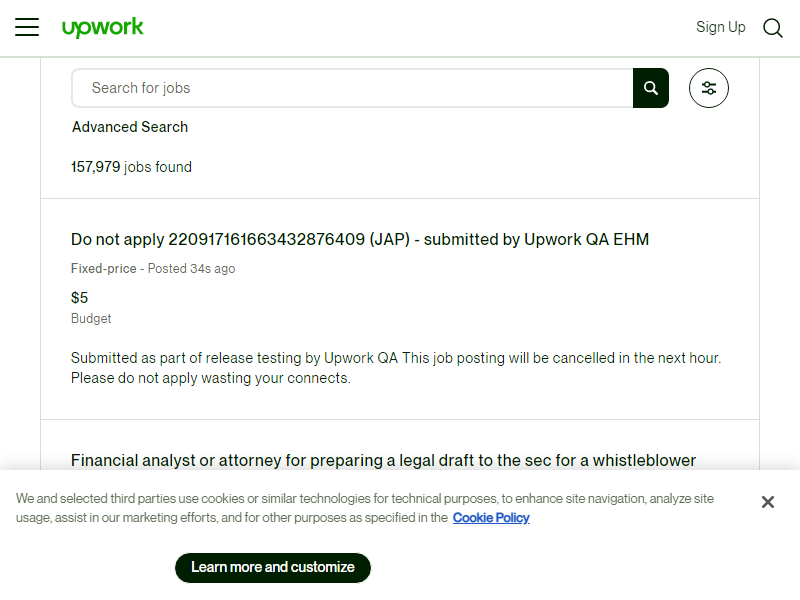
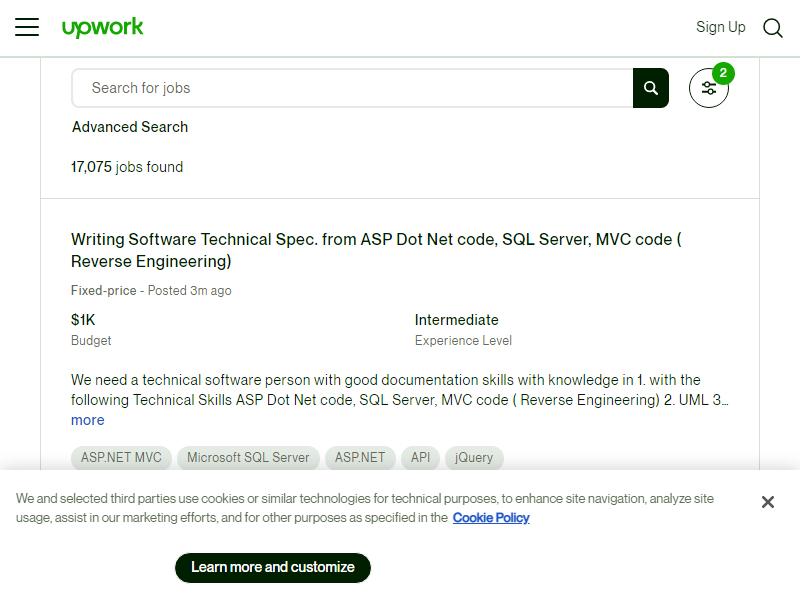
Notificaciones de upwork testeadas

Changed region(s): [[0.0625, 0.39, 0.9062, 0.81], [0.0938, 0.27, 0.25, 0.3], [0.875, 0.09, 0.9375, 0.15]]

diff --git a/src/controllers/upwork/notificationsController.js b/src/controllers/upwork/notificationsController.js
@@ -1,32 +1,46 @@
 const puppeteer = require('puppeteer');
 const userAgent = require('user-agents');
 const fs = require('fs').promises;
+const {query} = require('../../database/index');
+
 
 
 
 const fetchUpworkProjects = async (req, res) => {
+
+  const projects = await query('SELECT * FROM upwork_projects');
 
   const browser = await puppeteer.launch({headless: true});
   const page = await browser.newPage();
 	await page.setUserAgent("Mozilla/5.0 (Windows NT 10.0; Win64; x64) AppleWebKit/537.36 (KHTML, like Gecko) Chrome/105.0.0.0 Safari/537.36 Edg/105.0.1343.33")
 	page.setCacheEnabled(false);
   
-	page.on('response', response => {
-    if (response.url().endsWith("/url?subcategory2_uid=531770282584862733&sort=recency&per_page=10")){
-      // Get the response text
-      response.text().then(text => {
-        // Parse the JSON
-        const json = JSON.parse(text);
+	page.on('response', async response => {
+    if (response.url().endsWith("/url?sort=recency&category2_uid=531770282580668418&subcategory2_uid=531770282584862733&per_page=10")){
         
-        const projects = json.searchResults.jobs;
-        res.status(200).json(projects);
-      });
+      // Get the response text
+          const text = await response.text();
+          // Parse the JSON
+          const fetchedProjects = JSON.parse(text).searchResults.jobs.map(job => {
+            
+            const date = new Date(job.createdOn);
+            // Substract 4 hours from the date
+            // date.setHours(date.getHours() - 4);
+            return {
+              title: job.title,
+              description: job.description,
+              date: job.createdOn,
+              price: job.hourlyBudgetText ? job.hourlyBudgetText + ' Por hora' : job.amount.amount + ' ' + job.amount.currencyCode+ ' Fijo',
+              VzlaDate: date.toLocaleString(),
+            }
+
+          });
+
+          res.status(200).json(fetchedProjects);
     }
-      
-      // do something here
   });
 
-  await page.goto('https://www.upwork.com/nx/jobs/search/?subcategory2_uid=531770282584862733&sort=recency');
+  await page.goto('https://www.upwork.com/nx/jobs/search/?sort=recency&category2_uid=531770282580668418&subcategory2_uid=531770282584862733');
 
   await page.screenshot({path: 'upwork-init.png'});
 

diff --git a/test.js b/test.js
@@ -1,14 +1,23 @@
-const notifier = require('node-notifier');
-const open = require('open');
+const axios = require("axios");
 
+const encodedParams = new URLSearchParams();
+encodedParams.append("text", "The POST method has several advantages over GET: it is more secure because most of the request is hidden from the user; Suitable for big data operations.");
+encodedParams.append("tl", "es");
+encodedParams.append("sl", "en");
 
-// Object
-notifier.notify({
-  title: 'My notification',
-  message: 'Lorem ipsum dolor sit amet, consectetur adipiscing elit',
-  icon: './workana.png',
-});
+const options = {
+  method: 'POST',
+  url: 'https://google-translate20.p.rapidapi.com/translate',
+  headers: {
+    'content-type': 'application/x-www-form-urlencoded',
+    'X-RapidAPI-Key': '2ca4dde651msh1c8e8da11d186dcp115393jsn59625c8773a3',
+    'X-RapidAPI-Host': 'google-translate20.p.rapidapi.com'
+  },
+  data: encodedParams
+};
 
-notifier.on('click', function (notifierObject, options) {
-  open('https://www.workana.com');
+axios.request(options).then(function (response) {
+	console.log(response.data);
+}).catch(function (error) {
+	console.error(error);
 });

diff --git a/src/controllers/notificationsController.js b/src/controllers/notificationsController.js
@@ -89,6 +89,7 @@ const fetchProjects = async (req, res) => {
           const text = `${project.title}%0A${project.date}%0A%0A${project.description}%0A%0A${project.link}`
           fectchTelegramNotification(text, 'andresjosehr');
           fectchTelegramNotification(text, 'Esthefalop');
+          fectchTelegramNotification(text, 'santiago19t');
 
         }
         await query('INSERT INTO projects (title, description, date, link) VALUES (?, ?, ?, ?)', [project.title, project.description, project.date, project.link]);
